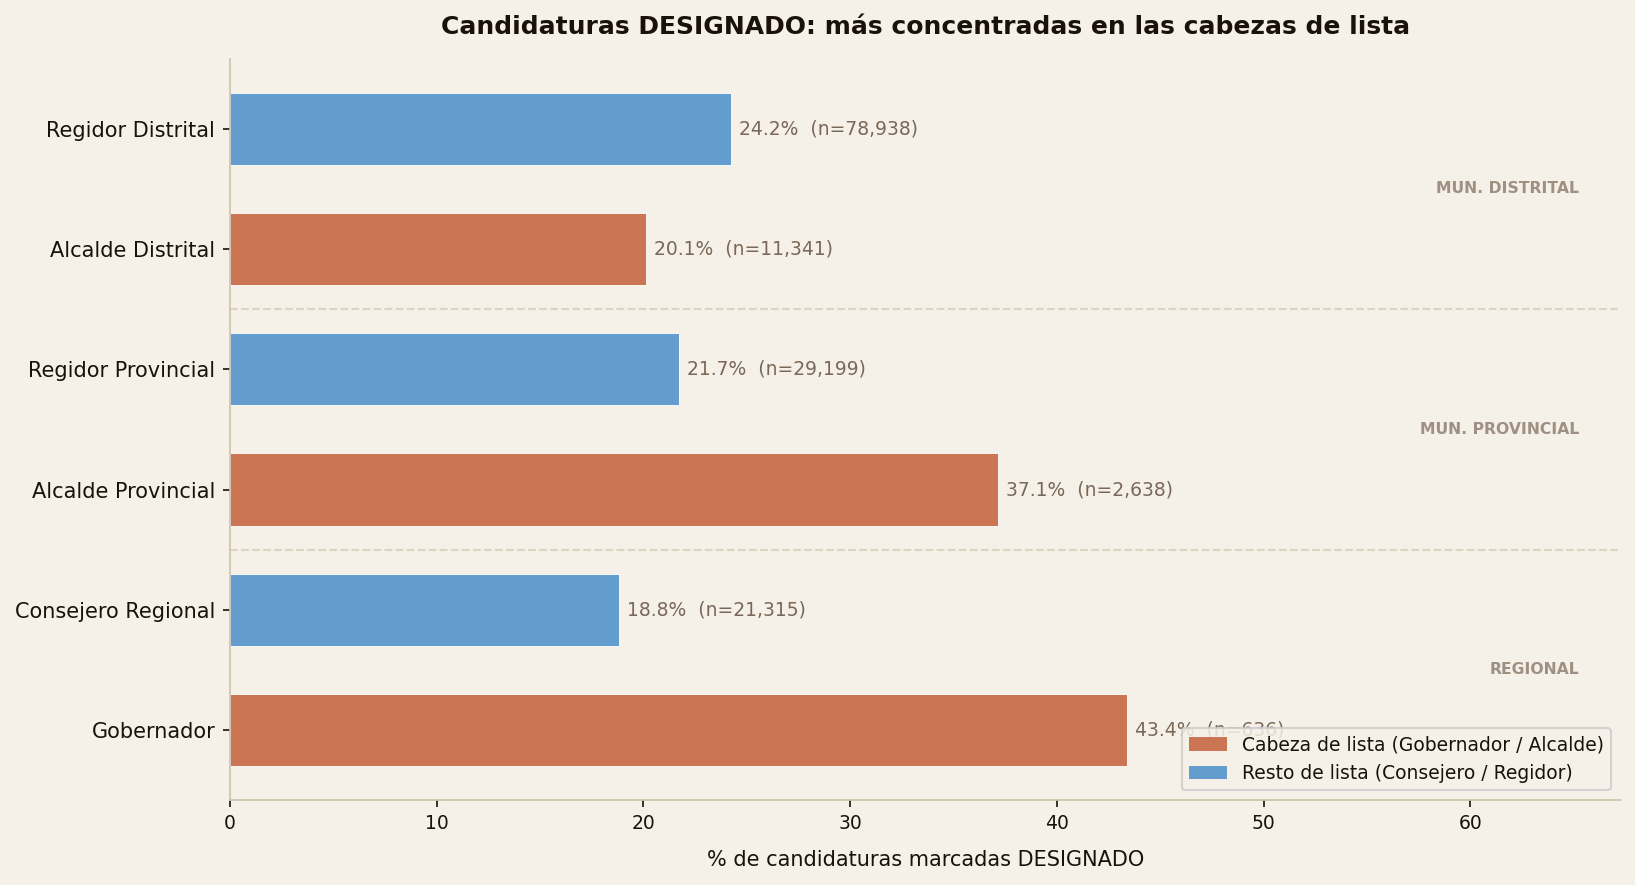
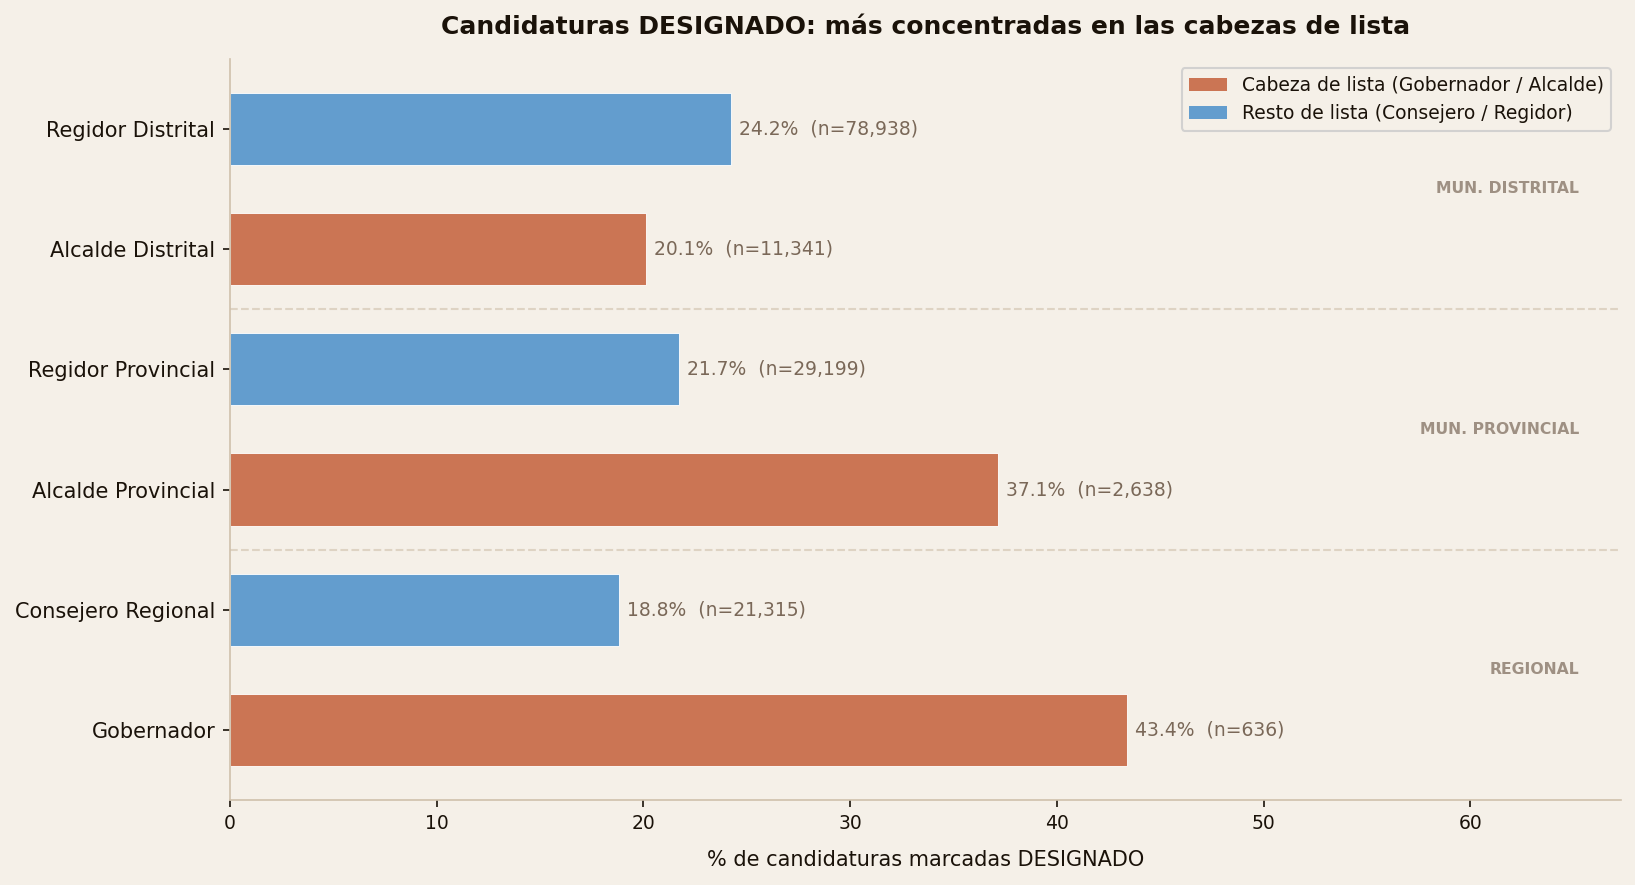
Add provincial coverage figure, fix legend, add political commentary and extreme cases
- New fig4 (provincial alcalde coverage by party): APP 74.5%, no party covers all 196
- Fixed fig2 legend overlapping Gobernador bar (moved to upper right)
- Title updated: remove '196 distritos sin candidato' (misleading in context)
- Added analysis of municipal provincial coverage
- Added extreme cases: Recta/Bongará (1 party only), SJL (36 parties)
- Political commentary: FP 17.3% and JxP 13.9% distrital coverage despite
  facing each other in next week's presidential second round
- Removed redundant 'criterio correcto pues...' parenthetical
- Stats strip now introduces the 3 election universes (25 regions, 196 prov, 1696 dist)

Changed region(s): [[0.7174, 0.061, 0.9982, 0.1525], [0.7174, 0.8237, 0.9982, 0.8847]]

diff --git a/articulos/primarias-erm-2026-candidatos/index.html b/articulos/primarias-erm-2026-candidatos/index.html
@@ -3,7 +3,7 @@
 <head>
   <meta charset="UTF-8">
   <meta name="viewport" content="width=device-width, initial-scale=1.0">
-  <title>171 mil candidaturas, 75 partidos y 196 distritos sin candidato: radiografía de las primarias ERM 2026 — Datapol</title>
+  <title>171 mil candidaturas y 75 partidos: radiografía de las primarias ERM 2026 — Datapol</title>
   <link rel="icon" type="image/svg+xml" href="/shared/favicon.svg">
   <link rel="preconnect" href="https://fonts.googleapis.com">
   <link rel="preconnect" href="https://fonts.gstatic.com" crossorigin>
@@ -12,8 +12,8 @@
 
   <meta property="og:type"        content="article">
   <meta property="og:site_name"   content="Datapol">
-  <meta property="og:title"       content="171 mil candidaturas, 75 partidos y 196 distritos sin candidato: radiografía de las primarias ERM 2026">
-  <meta property="og:description" content="Un análisis exploratorio de los 171,540 registros de candidaturas para las primarias de las Elecciones Regionales y Municipales 2026: quién participa, cómo se distribuye el DESIGNADO, y qué tan profunda es la cobertura territorial.">
+  <meta property="og:title"       content="171 mil candidaturas y 75 partidos: radiografía de las primarias ERM 2026">
+  <meta property="og:description" content="Un análisis exploratorio de los 171,540 registros de candidaturas para las primarias ERM 2026: quién participa, cómo se distribuye el DESIGNADO por tipo de cargo, y qué tan profunda es la cobertura territorial de cada partido.">
   <meta property="og:url"         content="https://datapol.lat/articulos/primarias-erm-2026-candidatos/">
 
   <style>
@@ -98,14 +98,6 @@
     figcaption { font-size: 11px; line-height: 1.55; color: var(--muted); margin-top: 0.6rem; }
     figcaption strong { color: var(--text); }
 
-    /* Table */
-    .data-table { width: 100%; border-collapse: collapse; font-size: 13px; margin: 1.4em 0; }
-    .data-table th { text-align: left; font-size: 9px; font-weight: 700; letter-spacing: 0.1em; text-transform: uppercase; color: var(--muted); border-bottom: 1.5px solid var(--text); padding: 0.4rem 0.5rem; }
-    .data-table th:not(:first-child) { text-align: right; }
-    .data-table td { padding: 0.45rem 0.5rem; border-bottom: 1px solid var(--border); }
-    .data-table td:not(:first-child) { text-align: right; font-variant-numeric: tabular-nums; }
-    .data-table tr:last-child td { border-bottom: 1.5px solid var(--text); font-weight: 600; }
-
     /* Footer */
     .footnotes { margin-top: 3rem; padding-top: 1.2rem; border-top: 1px solid var(--border); font-size: 11px; line-height: 1.6; color: var(--muted); }
     .footnotes p { margin-bottom: 0.5em; }
@@ -158,7 +150,7 @@
     </a>
 
     <div class="article-tag">Análisis · ERM 2026</div>
-    <h1 class="article-title">171 mil candidaturas, 75 partidos y 196 distritos sin candidato: radiografía de las primarias ERM 2026</h1>
+    <h1 class="article-title">171 mil candidaturas y 75 partidos: radiografía de las primarias ERM 2026</h1>
     <div class="article-byline">
       <span class="article-byline-author">Mathieu Rojas</span>
       <span class="article-byline-sep"></span>
@@ -186,6 +178,8 @@
         </div>
       </div>
 
+      <p>Las ERM 2026 elegirán a <strong>25 gobernadores regionales</strong>, <strong>196 alcaldes provinciales</strong> y <strong>1,696 alcaldes distritales</strong> — estos últimos son los 1,892 distritos del país menos los 196 que corresponden a capitales provinciales, las cuales no celebran elección distrital separada.</p>
+
       <h2>Quién moviliza más candidatos</h2>
 
       <p>Alianza para el Progreso (APP) lidera ampliamente el número de candidatos con nombre inscritos: <strong>11,980 personas</strong>, casi un 23% más que el segundo lugar, Somos Perú (9,743). La brecha entre el primer y el cuarto lugar es de casi 3,000 candidatos, lo que da una idea de la escala organizacional que separa a los partidos con mayor estructura territorial.</p>
@@ -202,23 +196,21 @@
 
       <p>Uno de los rasgos más llamativos de los datos es la prevalencia del registro <em>DESIGNADO</em>: una candidatura sin nombre asignado aún, utilizada para reservar una posición en la lista sin tener al candidato confirmado. En total, <strong>33,378 de las 171,540 candidaturas</strong> — casi 1 de cada 5 — están en esta categoría.</p>
 
-      <p>Pero el corte más informativo no es por nivel electoral — donde el porcentaje global ronda el 19–20% por el tope legal del 20% sobre las listas — sino <strong>por tipo de cargo dentro de cada nivel</strong>: los puestos de cabeza de lista concentran una proporción de DESIGNADO muy superior a los puestos de lista. El caso más llamativo es el <strong>Gobernador Regional</strong>, donde el <strong>43.4%</strong> de todas las candidaturas son DESIGNADO — casi una de cada dos. En Alcalde Provincial la cifra llega al <strong>37.1%</strong>.</p>
+      <p>El corte más informativo no es por nivel electoral — donde el porcentaje global ronda el 19–20% por el tope legal del 20% sobre las listas — sino <strong>por tipo de cargo dentro de cada nivel</strong>: los puestos de cabeza de lista concentran una proporción de DESIGNADO muy superior a los puestos de lista. El caso más llamativo es el <strong>Gobernador Regional</strong>, donde el <strong>43.4%</strong> de todas las candidaturas son DESIGNADO — casi una de cada dos. En Alcalde Provincial la cifra llega al <strong>37.1%</strong>.</p>
 
       <div class="highlight-box">
-        <p>El DESIGNADO se concentra desproporcionadamente en las cabezas de lista: el 43% de los gobernadores y el 37% de los alcaldes provinciales inscritos no tienen aún candidato con nombre. Esto revela la dificultad de los partidos nacionales para comprometer cuadros en posiciones de liderazgo en todo el territorio — las listas de acompañamiento son más fáciles de completar.</p>
+        <p>El DESIGNADO se concentra desproporcionadamente en las cabezas de lista: el 43% de los gobernadores y el 37% de los alcaldes provinciales inscritos no tienen aún candidato con nombre. La lógica es clara: es mucho más fácil completar los puestos de lista que comprometer a alguien en una candidatura de liderazgo en un territorio donde el partido no tiene presencia real.</p>
       </div>
 
       <figure>
         <img src="/articulos/candidatos-primarias-erm/figures/fig2_designado_por_cargo.png"
              alt="Candidaturas DESIGNADO por tipo de cargo">
-        <figcaption><strong>Figura 2.</strong> Porcentaje de candidaturas DESIGNADO por tipo de cargo, dentro de cada nivel electoral. Los cargos de cabeza de lista — Gobernador (43.4%) y Alcalde Provincial (37.1%) — concentran tasas de DESIGNADO muy superiores a los puestos de lista (Consejero Regional 18.8%, Regidores ~22–24%). El límite legal del 20% aplica sobre la lista, no sobre la cabeza, lo que explica por qué las jefaturas quedan más expuestas.</figcaption>
+        <figcaption><strong>Figura 2.</strong> Porcentaje de candidaturas DESIGNADO por tipo de cargo, dentro de cada nivel electoral. Los cargos de cabeza de lista — Gobernador (43.4%) y Alcalde Provincial (37.1%) — concentran tasas de DESIGNADO muy superiores a los puestos de lista (Consejero Regional 18.8%, Regidores ~22–24%). El límite legal del 20% aplica sobre la lista, no sobre la cabeza, lo que explica la asimetría.</figcaption>
       </figure>
 
       <h2>Cobertura regional: la presencia formal no equivale a cuadros propios</h2>
 
-      <p>Si se incluyen las candidaturas DESIGNADO en el análisis de cobertura — criterio correcto, pues un partido que registra un DESIGNADO en una región está declarando su intención de competir allí —, dos partidos menores alcanzan cobertura completa de las <strong>25 regiones</strong> del Perú: Partido Patriótico del Perú y Fuerza Ciudadana. Sin embargo, esa cobertura total se sostiene en gran parte sobre candidaturas DESIGNADO: no equivale a tener cuadros regionales propios.</p>
-
-      <p>Entre los partidos con mayor estructura, Somos Perú cubre <strong>22 de 25 regiones</strong> y Ahora Nación <strong>21</strong>. APP, pese a liderar en candidatos totales, llega a 20 regiones. En cambio, si la medida es cobertura con candidato <em>con nombre</em>, el panorama cambia: Acción Popular y Somos Perú lideran con <strong>18 regiones</strong> cada uno — ningún partido supera esa marca.</p>
+      <p>Dos partidos menores — Partido Patriótico del Perú y Fuerza Ciudadana — alcanzan cobertura completa de las 25 regiones, pero esa presencia descansa en gran parte sobre candidaturas DESIGNADO. Entre los partidos con mayor estructura, Somos Perú cubre <strong>22 de 25 regiones</strong> y Ahora Nación <strong>21</strong>. APP, pese a liderar en candidatos totales, llega a 20 regiones. Si la medida es cobertura con candidato <em>con nombre</em>, el panorama se ajusta: Acción Popular y Somos Perú lideran con <strong>18 regiones</strong> cada uno — ningún partido supera esa marca.</p>
 
       <figure>
         <img src="/articulos/candidatos-primarias-erm/figures/fig3_cobertura_gobernador.png"
@@ -226,44 +218,40 @@
         <figcaption><strong>Figura 3.</strong> Regiones con candidato a Gobernador por partido (top 20), incluyendo DESIGNADO. La línea punteada marca las 25 regiones del sistema. Dos partidos menores alcanzan cobertura completa; entre los grandes, Somos Perú lidera con 22.</figcaption>
       </figure>
 
+      <h2>Cobertura provincial: ningún partido supera el 75%</h2>
+
+      <p>En el nivel municipal provincial, la cobertura por partido es más baja de lo que podría esperarse. APP lidera con candidatos en <strong>146 de las 196 provincias</strong> (74.5%), seguido de Somos Perú con 142 (72.4%). El tercer lugar, Perú Primero, alcanza 137 provincias (69.9%) y el cuarto, Podemos Perú, 131 (66.8%). Ningún partido llega a la totalidad.</p>
+
+      <p>A partir del quinto lugar la brecha se amplía: Acción Popular cubre el 48% de las provincias, Renovación Popular el 45.9%, y Fuerza Popular — con toda su maquinaria nacional — apenas el 26%. Ninguno de los dos partidos que disputarán la segunda vuelta presidencial la próxima semana demuestra, en el plano subnacional, la misma capacidad de despliegue que las grandes maquinarias regionales.</p>
+
+      <figure>
+        <img src="/articulos/candidatos-primarias-erm/figures/fig3b_cobertura_provincial_partido.png"
+             alt="Cobertura de alcaldías provinciales por partido — top 20">
+        <figcaption><strong>Figura 4.</strong> Provincias con candidato a Alcalde Provincial por partido (top 20), incluyendo DESIGNADO. La línea punteada marca las 196 provincias. APP lidera con 146 (74.5%); ningún partido alcanza cobertura total.</figcaption>
+      </figure>
+
       <h2>Cobertura distrital: todos los 1,696 distritos en contienda tienen candidato</h2>
 
-      <p>En el nivel municipal distrital, la cobertura es total. Conviene aclarar el universo correcto: de los 1,892 distritos del Perú, <strong>196 son capitales de provincia</strong> y, por tanto, no celebran una elección de Alcalde Distrital separada — sus votantes eligen al Alcalde Provincial que también representa a la capital. El universo real de alcaldías distritales en contienda es de <strong>1,696 distritos</strong>. Y en los 1,696 hay al menos un partido con candidato inscrito — <strong>cobertura del 100%</strong>.</p>
+      <p>En el nivel distrital, la cobertura agregada es completa: los <strong>1,696 distritos en contienda tienen al menos un partido con candidato inscrito</strong>. APP lidera con candidatos en <strong>1,114 distritos</strong> (65.7%), seguido de Somos Perú con 1,026 (60.5%). Perú Primero y Podemos Perú empatan en 925 (54.5% cada uno). Ningún partido supera el 70% de cobertura, lo que significa que en al menos un tercio del país cualquiera de los cuatro líderes nacionales no participa.</p>
 
-      <p>La cobertura de provincias también es completa: los <strong>196 circuitos provinciales</strong> tienen al menos un candidato a Alcalde Provincial inscrito.</p>
-
-      <table class="data-table">
-        <thead>
-          <tr><th>Nivel</th><th>Universo en contienda</th><th>Cubiertos</th><th>Cobertura</th></tr>
-        </thead>
-        <tbody>
-          <tr><td>Gobernador Regional</td><td>25 regiones</td><td>25</td><td>100%</td></tr>
-          <tr><td>Alcalde Provincial</td><td>196 provincias</td><td>196</td><td>100%</td></tr>
-          <tr><td>Alcalde Distrital</td><td>1,696 distritos*</td><td>1,696</td><td>100%</td></tr>
-        </tbody>
-      </table>
-      <p style="font-size:11px;color:var(--muted);margin-top:-0.8em;">*1,892 distritos totales menos 196 capitales provinciales que no celebran elección distrital separada.</p>
-
-      <h3>Los partidos con mayor cobertura distrital</h3>
-
-      <p>APP lidera también la cobertura distrital con candidatos — incluyendo DESIGNADO — en <strong>1,114 distritos</strong> (65.7% de los 1,696 en contienda). Somos Perú sigue con 1,026 (60.5%). Ningún partido supera el 70% de cobertura, lo que habla de la fragmentación territorial del sistema de partidos peruano: en un tercio del país, al menos uno de los dos líderes nacionales no participa.</p>
+      <p>Llama la atención la baja cobertura de los dos candidatos presidenciales que se disputarán la segunda vuelta la próxima semana. <strong>Fuerza Popular participa en apenas 293 distritos (17.3%)</strong> y <strong>Juntos por el Perú en 236 (13.9%)</strong>. Son partidos cuya fuerza electoral en la primera vuelta presidencial no se traduce en infraestructura territorial para la disputa subnacional — el escenario donde las maquinarias regionales sin presencia mediática tienen su ventaja real.</p>
 
       <figure>
         <img src="/articulos/candidatos-primarias-erm/figures/fig4_cobertura_distrital_partido.png"
              alt="Cobertura de alcaldías distritales por partido — top 20">
-        <figcaption><strong>Figura 4.</strong> Número de distritos con candidato a Alcalde Distrital por partido (top 20), incluyendo DESIGNADO. La línea punteada marca los 1,696 distritos en contienda. APP lidera con 1,114 (65.7%), seguido de Somos Perú con 1,026 (60.5%).</figcaption>
+        <figcaption><strong>Figura 5.</strong> Distritos con candidato a Alcalde Distrital por partido (top 20), incluyendo DESIGNADO. La línea punteada marca los 1,696 distritos en contienda. APP lidera con 1,114 (65.7%), seguido de Somos Perú con 1,026 (60.5%). Fuerza Popular y Juntos por el Perú, ausentes del top 20, cubren solo el 17% y el 14% del territorio respectivamente.</figcaption>
       </figure>
 
       <h2>¿Dónde es más competida la elección distrital?</h2>
 
-      <p>Dado que la cobertura global es completa, la pregunta más relevante es cuántos partidos compiten por cada alcaldía. <strong>Lima Metropolitana</strong> registra el mayor promedio: <strong>20.6 partidos distintos</strong> compiten por alcaldía en promedio, lo que refleja la alta concentración de organizaciones políticas activas en la capital. Callao sigue con 12.5 partidos por distrito.</p>
+      <p>Con cobertura completa en todos los distritos, la pregunta más relevante es cuántos partidos compiten por cada alcaldía. <strong>Lima Metropolitana</strong> registra el mayor promedio, con <strong>20.6 partidos distintos</strong> por distrito. El caso extremo es San Juan de Lurigancho: <strong>36 organizaciones</strong> distintas presentan candidato a alcalde en un solo distrito — el más poblado del Perú. En el extremo opuesto, el distrito de Recta (Bongará, Amazonas) tiene un único partido competiendo: gana quien se presente.</p>
 
-      <p>En el extremo opuesto, <strong>Amazonas</strong> registra el promedio más bajo: apenas <strong>4.6 partidos por distrito</strong>, seguido de Apurímac (5.1) y Huancavelica (5.1). En estas regiones, la baja densidad de competencia puede traducirse en alcaldes electos con porcentajes muy bajos del voto distrital, o en distritos donde un movimiento regional domina sin oposición real.</p>
+      <p>Callao sigue a Lima Metropolitana con 12.5 partidos por distrito en promedio. En el otro extremo, <strong>Amazonas</strong> registra el promedio más bajo: <strong>4.6 partidos por distrito</strong>, seguido de Apurímac (5.1) y Huancavelica (5.1). En estas regiones, la baja densidad de competencia puede traducirse en alcaldes electos con porcentajes muy bajos del voto distrital — o en circuitos donde un movimiento local gana sin oposición real.</p>
 
       <figure>
         <img src="/articulos/candidatos-primarias-erm/figures/fig5_competencia_distrital_region.png"
              alt="Intensidad de competencia distrital por región">
-        <figcaption><strong>Figura 5.</strong> Promedio de partidos distintos con candidato a Alcalde Distrital por región, ordenado de menor a mayor. Lima Metropolitana (20.6) y Callao (12.5) concentran la mayor competencia; Amazonas (4.6), Apurímac (5.1) y Huancavelica (5.1) la menor.</figcaption>
+        <figcaption><strong>Figura 6.</strong> Promedio de partidos distintos con candidato a Alcalde Distrital por región. Lima Metropolitana (20.6) y Callao (12.5) concentran la mayor competencia; Amazonas (4.6), Apurímac (5.1) y Huancavelica (5.1) la menor. En Recta (Bongará, Amazonas) hay un solo partido compitiendo.</figcaption>
       </figure>
 
       <h2>Síntesis</h2>
@@ -272,8 +260,8 @@
 
       <ol style="margin: 1em 0 1.4em 1.4em; line-height: 2.1;">
         <li><strong>El DESIGNADO se concentra en las cabezas de lista</strong>: el 43% de los gobernadores y el 37% de los alcaldes provinciales inscritos no tienen candidato con nombre, frente a ~19–24% en los puestos de lista. El límite legal del 20% aplica sobre la lista, no sobre la jefatura — de ahí la asimetría.</li>
-        <li><strong>Cobertura territorial completa</strong>: todos los 1,696 distritos en contienda y las 196 provincias tienen al menos un partido con candidato. Los 196 distritos que no aparecen en el padrón distrital son capitales provinciales que no celebran elección de alcalde distrital separada.</li>
-        <li><strong>Competencia muy desigual por región</strong>: Lima Metropolitana promedia 20 partidos por distrito; Amazonas, menos de 5. Esa asimetría importa: donde hay poca competencia, una organización pequeña puede ganar con una fracción del voto distrital.</li>
+        <li><strong>Los líderes presidenciales son débiles subnacionales</strong>: Fuerza Popular y Juntos por el Perú, que se disputarán la presidencia la próxima semana, tienen coberturas distritales de 17% y 14% respectivamente. La política subnacional la dominan partidos que apenas aparecen en las encuestas presidenciales.</li>
+        <li><strong>Competencia muy desigual por región</strong>: Lima Metropolitana promedia 20 partidos por distrito; Amazonas, menos de 5. Donde hay poca competencia, una organización pequeña puede ganar con una fracción del voto distrital.</li>
       </ol>
 
       <p>La participación en primarias no es garantía de competitividad electoral. Pero estos registros ofrecen una primera fotografía de qué partidos tienen la capacidad organizacional para desplegar una estructura nacional — y cuáles están apostando a completarla sobre la marcha.</p>

diff --git a/articulos/index.html b/articulos/index.html
@@ -187,7 +187,7 @@
     <a class="article-row" href="/articulos/primarias-erm-2026-candidatos/">
       <div class="article-row-body">
         <div class="article-row-tag">Análisis · ERM 2026</div>
-        <div class="article-row-title">171 mil candidaturas, 75 partidos y 196 distritos sin candidato: radiografía de las primarias ERM 2026</div>
+        <div class="article-row-title">171 mil candidaturas y 75 partidos: radiografía de las primarias ERM 2026</div>
         <div class="article-row-teaser">Un análisis exploratorio del padrón de candidatos: quién moviliza más, cómo se distribuye el DESIGNADO por tipo de cargo — concentrado en gobernadores (43%) y alcaldes provinciales (37%) — y qué tan profunda es la competencia territorial de cada partido.</div>
       </div>
       <div class="article-row-meta">

diff --git a/articulos/candidatos-primarias-erm/analyze_erm.py b/articulos/candidatos-primarias-erm/analyze_erm.py
@@ -202,7 +202,7 @@ leg_elements = [
     Patch(facecolor=TERRA, alpha=0.85, label='Cabeza de lista (Gobernador / Alcalde)'),
     Patch(facecolor=BLUE,  alpha=0.85, label='Resto de lista (Consejero / Regidor)'),
 ]
-ax.legend(handles=leg_elements, fontsize=9, loc='lower right', framealpha=0.85, facecolor=BG)
+ax.legend(handles=leg_elements, fontsize=9, loc='upper right', framealpha=0.85, facecolor=BG)
 
 fig.tight_layout()
 fig.savefig('figures/fig2_designado_por_cargo.png', bbox_inches='tight', dpi=150, facecolor=BG)
@@ -241,6 +241,43 @@ fig.tight_layout()
 fig.savefig('figures/fig3_cobertura_gobernador.png', bbox_inches='tight', dpi=150, facecolor=BG)
 plt.close()
 print("Saved fig3")
+
+
+# ═══════════════════════════════════════════════════════════════════════════════
+# FIG 3B — Alcalde provincial coverage by party (# provincias)
+#
+# Same logic as fig 3: includes DESIGNADO, uses drop_duplicates() on
+# (REGION, PROVINCIA) to avoid double-counting parties with multiple
+# candidatos in the same provincia.
+# ═══════════════════════════════════════════════════════════════════════════════
+alcp_all = df[df['CARGO'] == 'ALCALDE PROVINCIAL']
+alcp_cov = (alcp_all
+            .groupby('PRESENTACION')
+            .apply(lambda x: x[['REGION','PROVINCIA']].drop_duplicates().shape[0],
+                   include_groups=False)
+            .sort_values(ascending=True)
+            .tail(20))
+ylabels3b = [short(p) for p in alcp_cov.index]
+
+fig, ax = plt.subplots(figsize=(11, 7.5))
+colors3b = [TERRA if v == 196 else (ORANGE if v >= 100 else BLUE) for v in alcp_cov.values]
+bars = ax.barh(ylabels3b, alcp_cov.values, color=colors3b, alpha=0.85,
+               edgecolor='white', linewidth=0.5, height=0.65)
+ax.axvline(196, color=MUTED, lw=1.2, ls='--', alpha=0.6, label='196 provincias (total)')
+for bar, val in zip(bars, alcp_cov.values):
+    pct = val / 196 * 100
+    ax.text(bar.get_width() + 1.5, bar.get_y() + bar.get_height()/2,
+            f'{val}  ({pct:.0f}%)', va='center', ha='left', fontsize=9, color=MUTED)
+ax.set_xlabel('Provincias con candidato a Alcalde Provincial (incl. DESIGNADO)', fontsize=10, labelpad=8)
+ax.set_title('Cobertura provincial — candidatos a Alcalde Provincial por partido\n(top 20, incluye DESIGNADO)',
+             fontsize=12, fontweight='bold', pad=12)
+ax.set_xlim(right=196 * 1.22)
+ax.xaxis.set_major_formatter(mticker.FuncFormatter(lambda x, _: f'{int(x):,}'))
+ax.legend(fontsize=9, framealpha=0.85, facecolor=BG)
+fig.tight_layout()
+fig.savefig('figures/fig3b_cobertura_provincial_partido.png', bbox_inches='tight', dpi=150, facecolor=BG)
+plt.close()
+print("Saved fig3b")
 
 
 # ═══════════════════════════════════════════════════════════════════════════════
